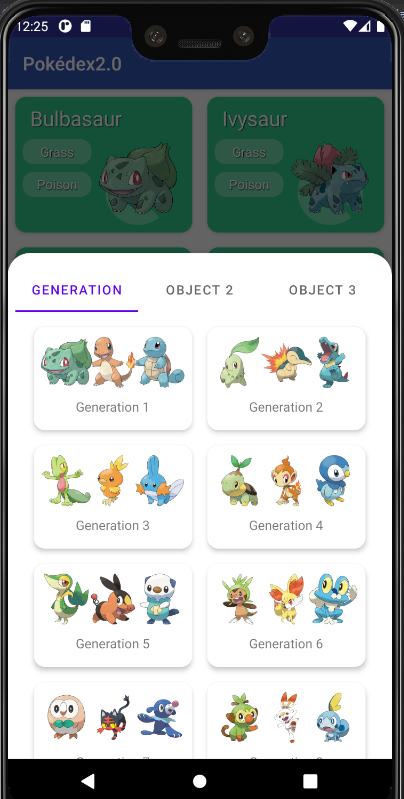
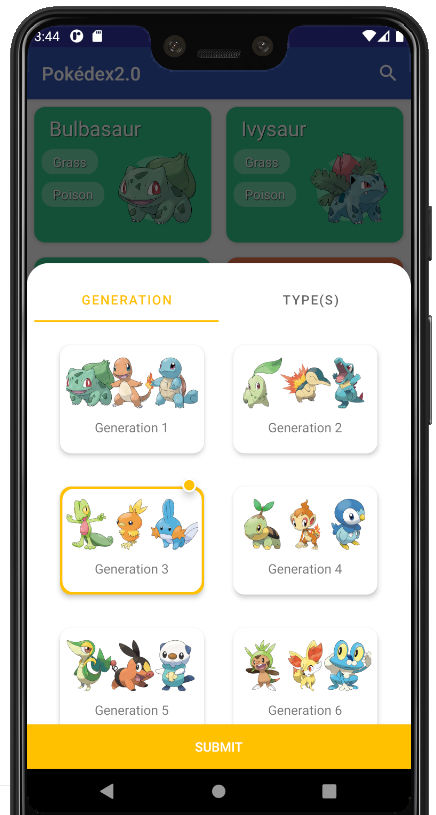
Updated README

diff --git a/README.MD b/README.MD
@@ -1,9 +1,13 @@
 # Pokedex 2.0
 My first serious android app based on [this concept](https://dribbble.com/shots/6545819-Pokedex-App) by Saepul Nahwan
 
-[![Main Page](https://github.com/FabZanna/FabulousPokedex/blob/master/app/files/main_activity_snippet.png)](https://github.com/FabZanna/FabulousPokedex/blob/master/app/files/main_activity_snippet.png "Main Page")
+![Main Page](https://github.com/FabZanna/FabulousPokedex/blob/master/app/files/main_activity_snippet.png "Main Page")
 
 ## Filtering
-I'm currently working on implementing the first filters on the list. The only one working right now is the filter by generation
+I've implemented 3 filters for now - Generation, type and name
 
-[![Gen Filter](https://github.com/FabZanna/FabulousPokedex/blob/master/app/files/gen_filter_snippet.png)](https://github.com/FabZanna/FabulousPokedex/blob/master/app/files/gen_filter_snippet.png "Gen Filter")
+![Gen Filter](https://github.com/FabZanna/FabulousPokedex/blob/master/app/files/gen_filter_snippet.png "Gen Filter") ![Type Filter](https://github.com/FabZanna/FabulousPokedex/blob/master/app/files/type_filter_snippet.png "Type Filter")
+
+## Pokemon Page
+I'm currently working on implementing the page relative to a single pokemon. The pokeball spins continuously btw.
+![Pokemon Details](https://github.com/FabZanna/FabulousPokedex/blob/master/app/files/pokemon_details.png "Pokemon Details")
